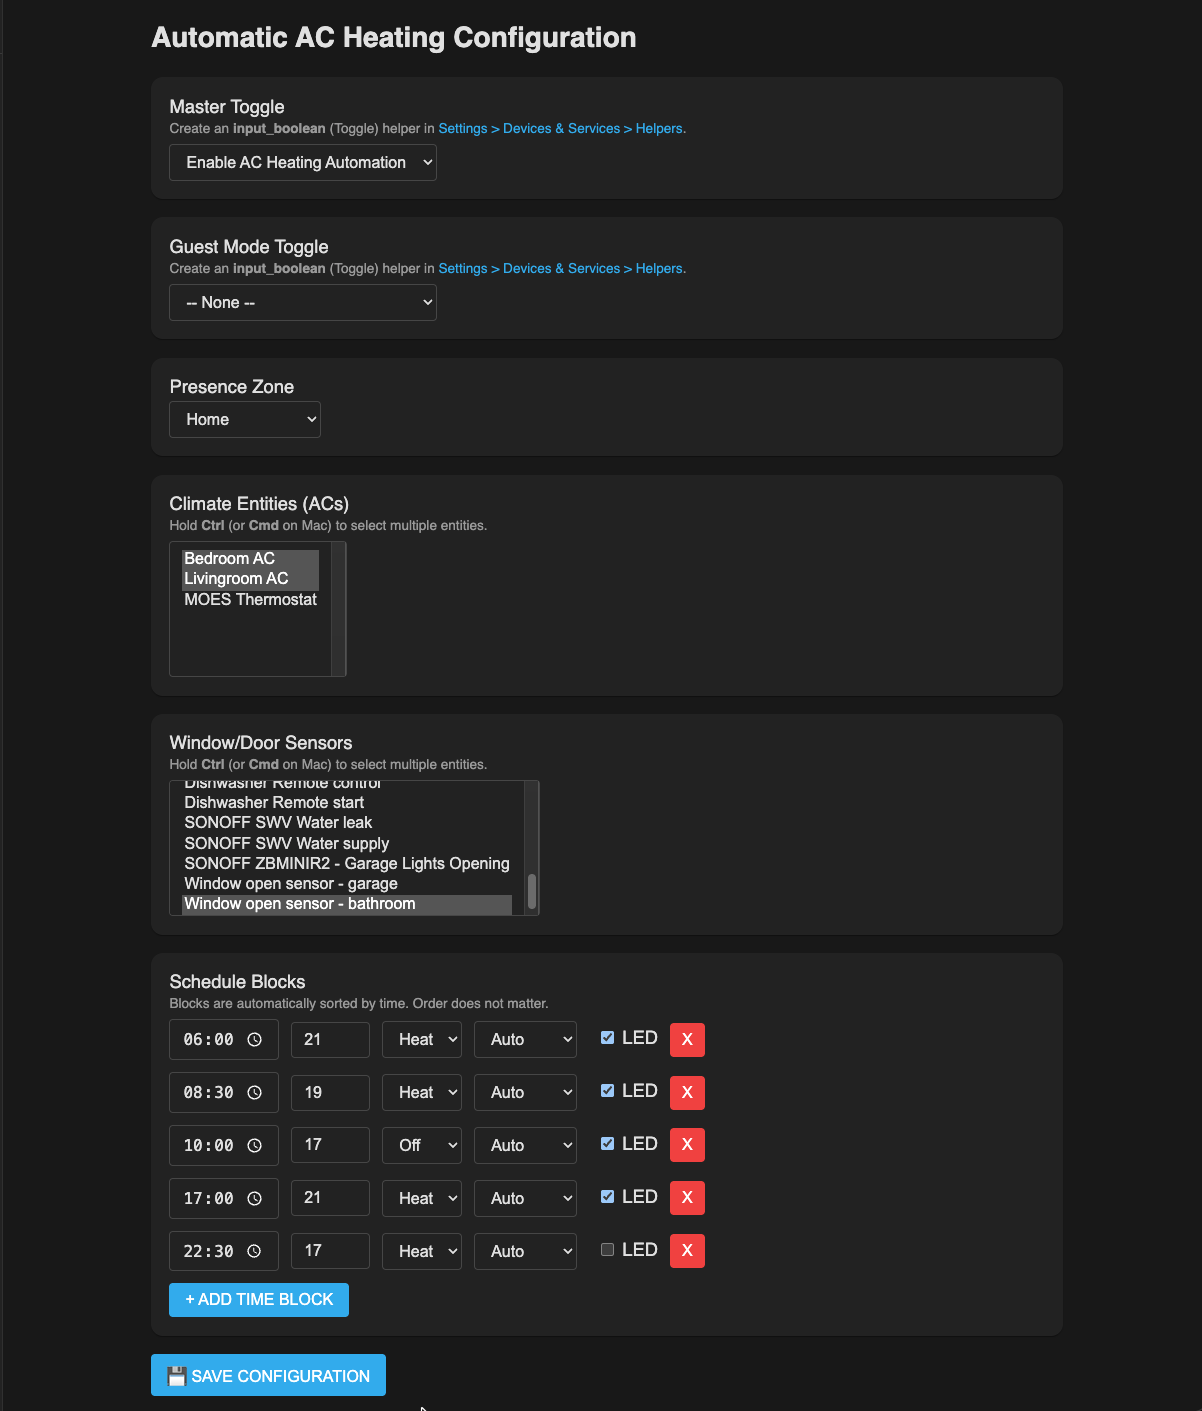
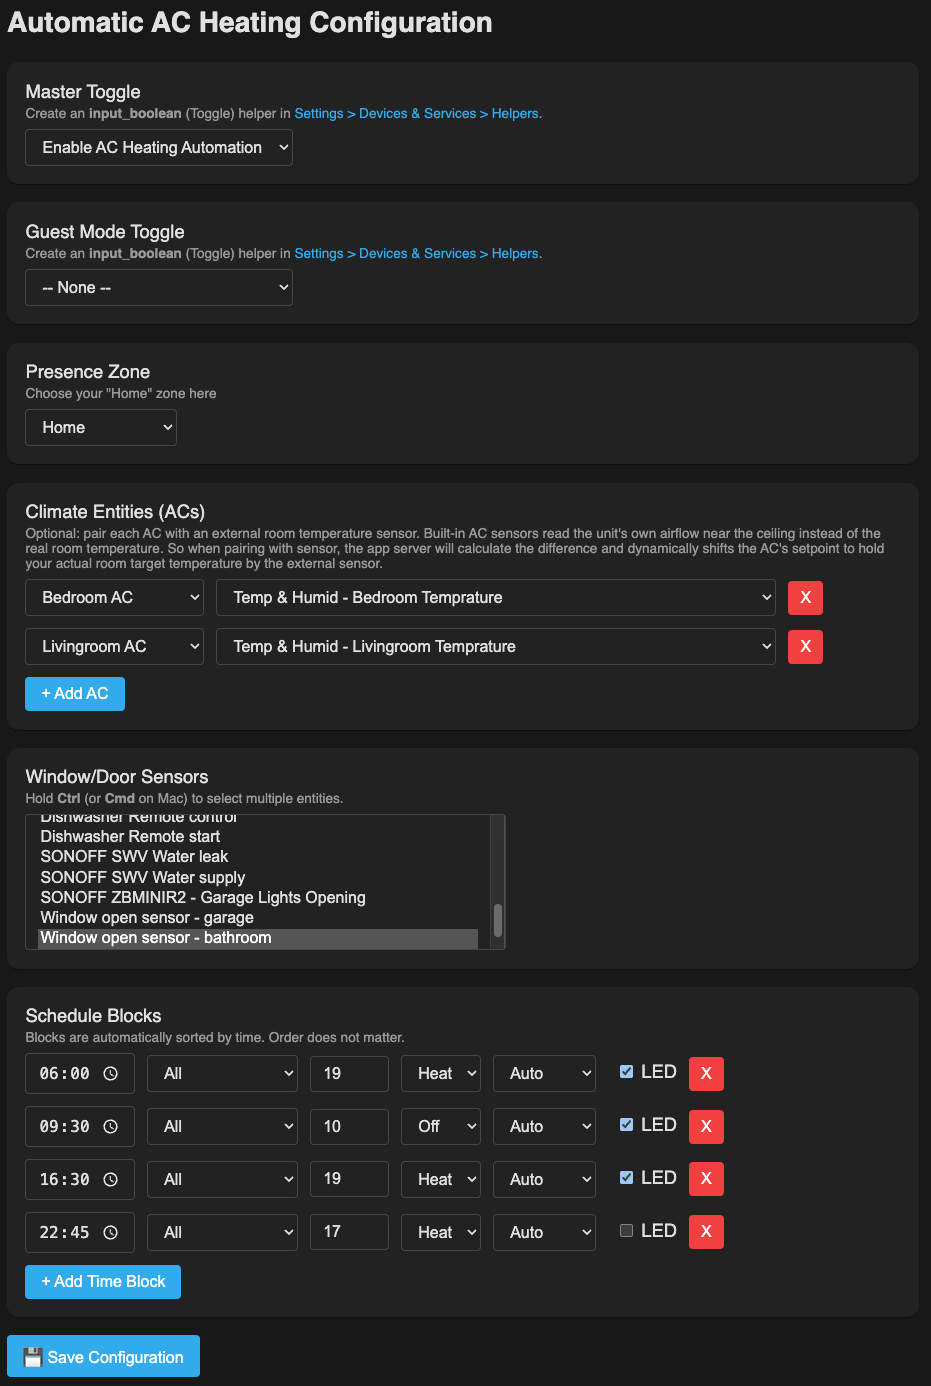
remove build stage, just run the html and js as is

diff --git a/server.js b/server.js
@@ -1,11 +1,10 @@
 const fs = require('fs');
 const express = require('express');
 const WebSocket = require('ws');
-const path = require('path');
 
 const app = express();
 app.use(express.json());
-app.use(express.static(path.join(__dirname, 'dist')));
+app.use(express.static(__dirname));
 
 const DATA_FILE = '/data/config.json';
 const MAX_SENSOR_AGE_HOURS = 2;

diff --git a/ui.js b/ui.js
@@ -1,4 +1,4 @@
-import { LitElement, html, css } from 'lit';
+import { LitElement, html, css } from './node_modules/lit/index.js';
 
 class ConfigPage extends LitElement {
   static styles = css`

diff --git a/index.html b/index.html
@@ -22,5 +22,7 @@
 
     <config-page></config-page>
 
+    <script type="module" src="./ui.js"></script>
+    
   </body>
 </html>
